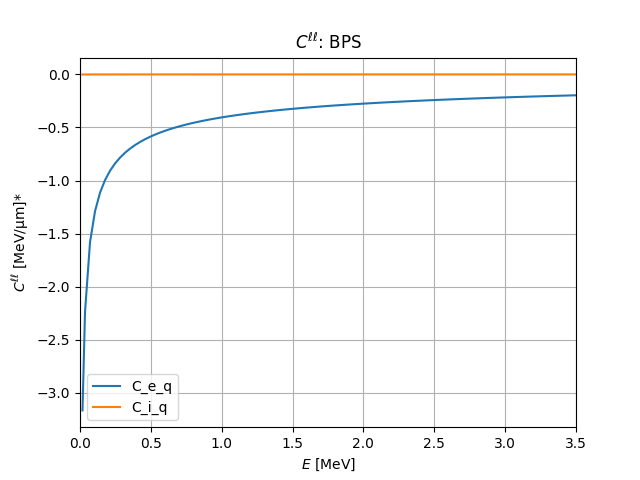
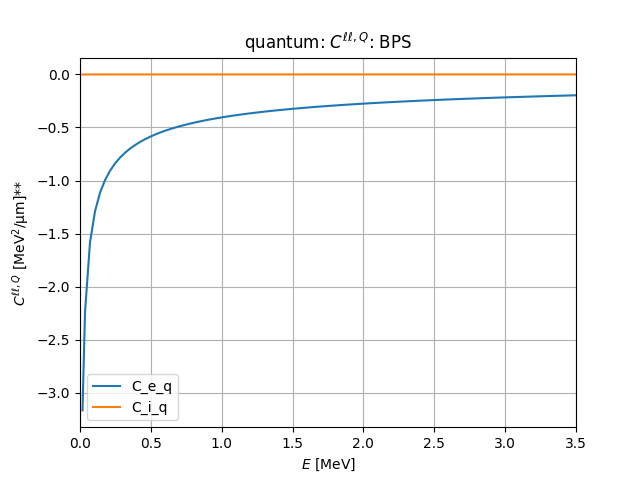
modified:   plot_ccoeff.py 	modified:   plot_ccoeff_2.png 	modified:   plot_ccoeff_3.png improved python plot

Changed region(s): [[0.375, 0.0625, 0.6562, 0.125], [0.0, 0.375, 0.0625, 0.625]]

diff --git a/plot_ccoeff.py b/plot_ccoeff.py
@@ -49,8 +49,8 @@ ymax = 5.0
 plt.xlim(0, xmax)
 #plt.ylim(-8, 5)
 plt.xlabel(r'$E \,\, {\rm [MeV]}$')
-plt.ylabel(r'$C^{\ell \ell} \,\, {\rm [MeV/\mu m]}$*')
-plt.title(r'$C^{\ell\ell}$: BPS')
+plt.ylabel(r'$C^{\ell \ell, C} \,\, {\rm [MeV/\mu m]}$*')
+plt.title(r'classical: $C^{\ell\ell, C}$: BPS')
 plt.legend(loc=0)
 plt.grid(True)
 plt.savefig('plot_ccoeff_2.png')
@@ -68,8 +68,8 @@ ymax = 5.0
 plt.xlim(0, xmax)
 #plt.ylim(-8, 5)
 plt.xlabel(r'$E \,\, {\rm [MeV]}$')
-plt.ylabel(r'$C^{\ell \ell} \,\, {\rm [MeV/\mu m]}$*')
-plt.title(r'$C^{\ell\ell}$: BPS')
+plt.ylabel(r'$C^{\ell \ell, Q} \,\, {\rm [MeV^2/\mu m]}$**')
+plt.title(r'quantum: $C^{\ell\ell, Q}$: BPS')
 plt.legend(loc=0)
 plt.grid(True)
 plt.savefig('plot_ccoeff_3.png')
